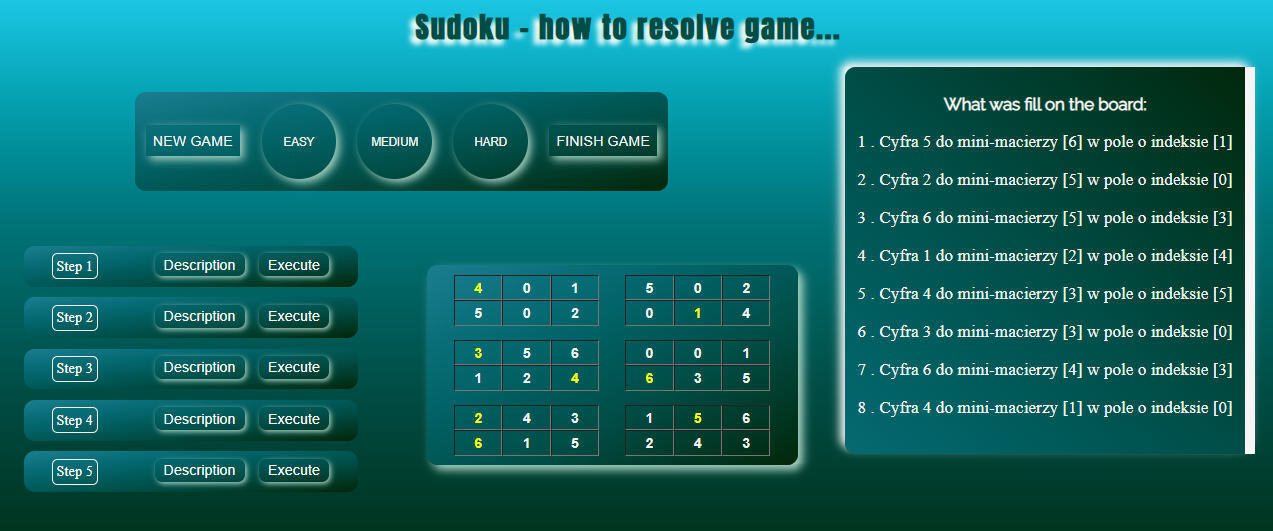
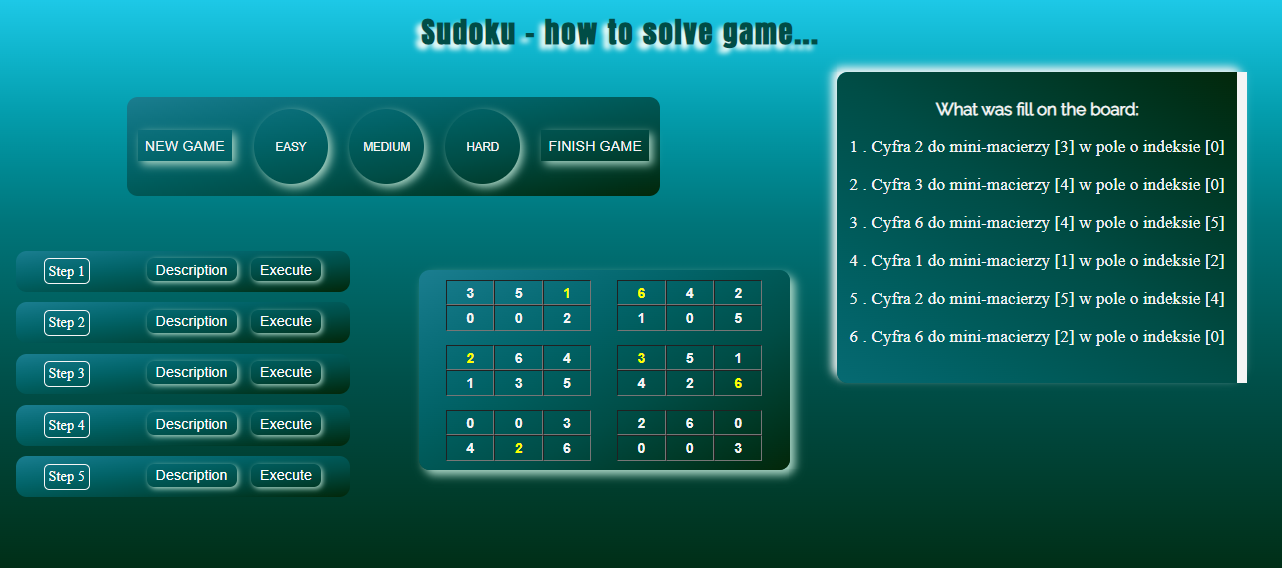
Update README

Changed region(s): [[0.0, 0.0301, 1.0, 0.9341], [0.0919, 0.1507, 0.5515, 0.3616], [0.7353, 0.1808, 0.9191, 0.2109]]

diff --git a/src/components/SudokuContainer.vue b/src/components/SudokuContainer.vue
@@ -1,7 +1,7 @@
 <template>
   <div class="containerApp">
     <div class="containerApp__title">
-      <h1>Sudoku - how to resolve game...
+      <h1>Sudoku - how to solve game...
       </h1>
     </div>
     <div class="containerApp__box">

diff --git a/README.md b/README.md
@@ -1,4 +1,4 @@
-# The page shows you how to resolve Sudoku game! <br>
+# How to solve Sudoku game? <br>
 
 ![a screenshot presenting the front page of the project website](./images/home--small.PNG)
 
